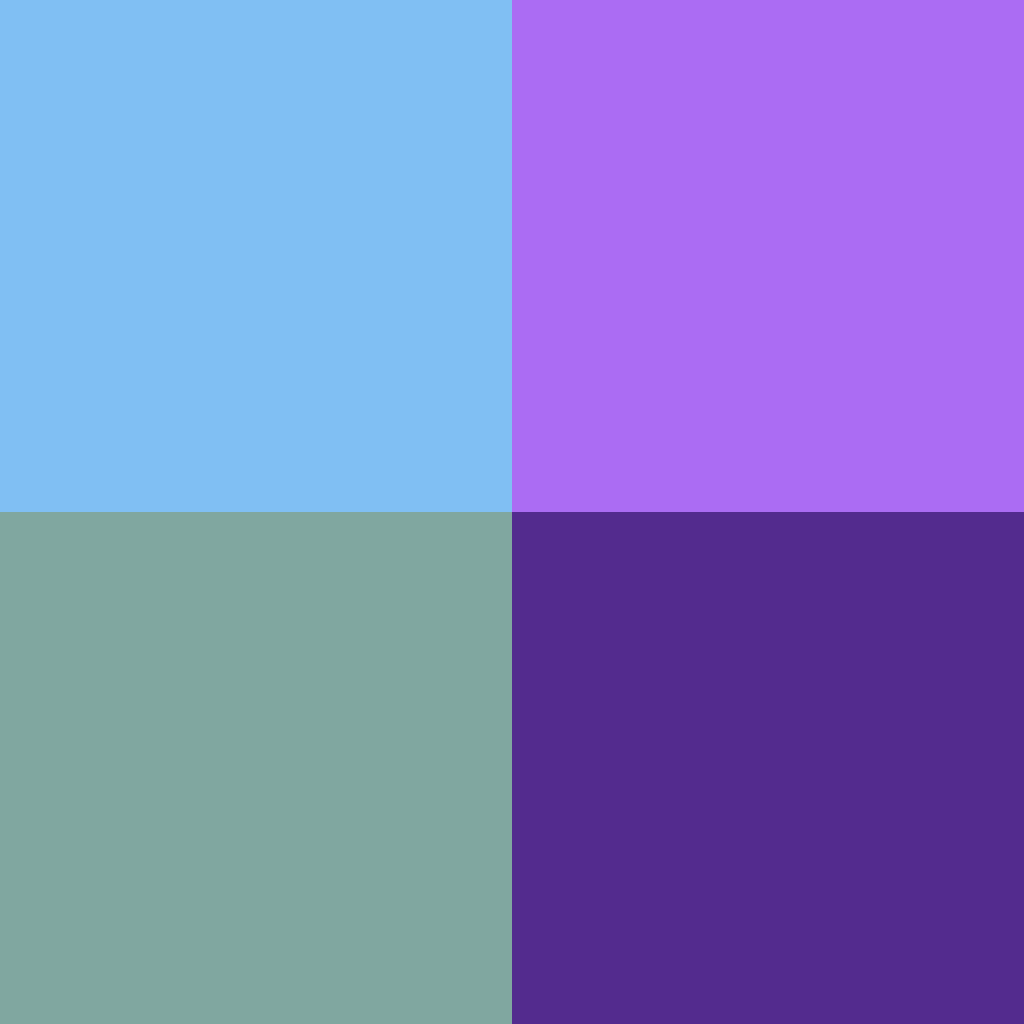
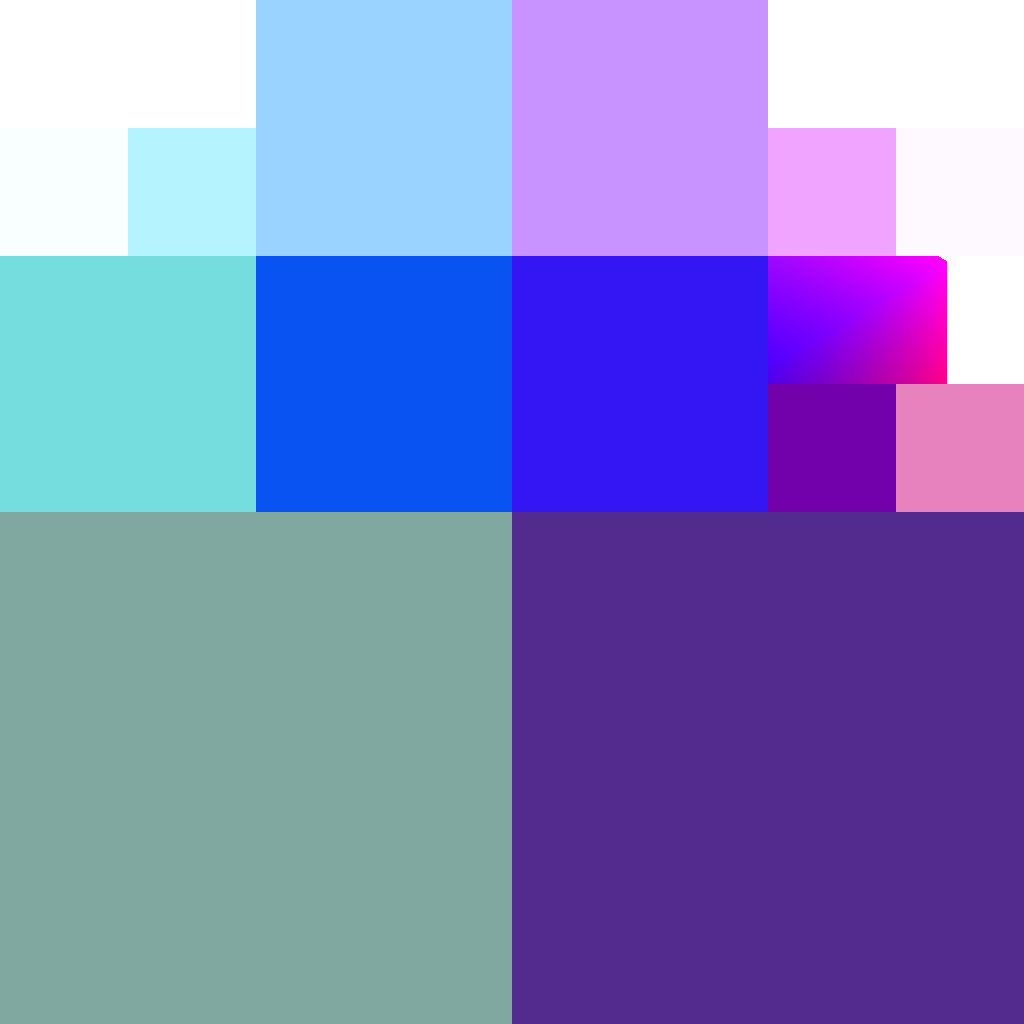
bug a trouver, position Y de départ qui est la même à l'arrivée, ajout d'une exception dans le constructeur de la position

diff --git a/src/Main/Main.java b/src/Main/Main.java
@@ -18,8 +18,14 @@ public class Main {
 			
 			Quadtree qt = new Quadtree(image);
 			System.out.println("avant compression" + qt.toString());
-			qt.compressPhi(4);
+			qt.compressPhi(20);
 			System.out.println("apres compression" + qt.toString());
+			ArrayList<Carre> listeCarre = new ArrayList<>();
+			qt.getFeuilles(listeCarre, qt.getCarrePrincipal());
+			for(Carre feuille: listeCarre) {
+				System.out.println(feuille+ "   "+feuille.getPosition());
+				
+			}
 			qt.exporterImage("test.png");
 			
 			

diff --git a/src/Quadtree/Position.java b/src/Quadtree/Position.java
@@ -11,7 +11,10 @@ public class Position {
 	
 	
 	
-	public Position(int xDepart, int xArrive, int yDepart, int yArrive) {
+	public Position(int xDepart, int xArrive, int yDepart, int yArrive) throws Exception {
+		if(this.yDepart+Math.abs(xDepart-xArrive)>yArrive+10 ||this.yDepart+Math.abs(xDepart-xArrive)>yArrive-10) {
+			throw new Exception("probleme coordonnée Y");
+		}
 		this.xDepart = xDepart;
 		this.xArrive = xArrive;
 		this.yDepart = yDepart;

diff --git a/src/Quadtree/Quadtree.java b/src/Quadtree/Quadtree.java
@@ -266,6 +266,7 @@ public class Quadtree {
 				
 				Carre pereNouvelleFeuille = pereQuiDevientFeuille.getCarrePere();
 				
+				
 				if(pereNouvelleFeuille.estPereDeFeuille()) {
 					pereDeFeuille.add(pereNouvelleFeuille);	
 				}
